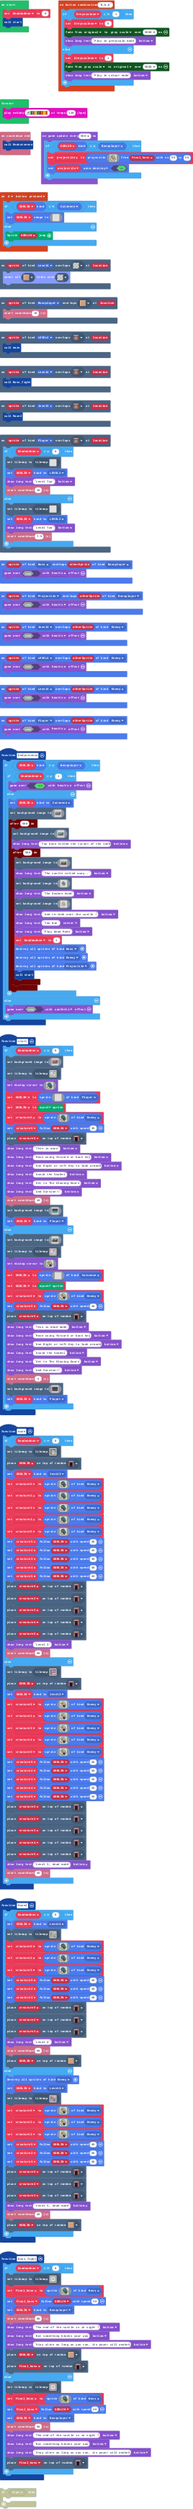
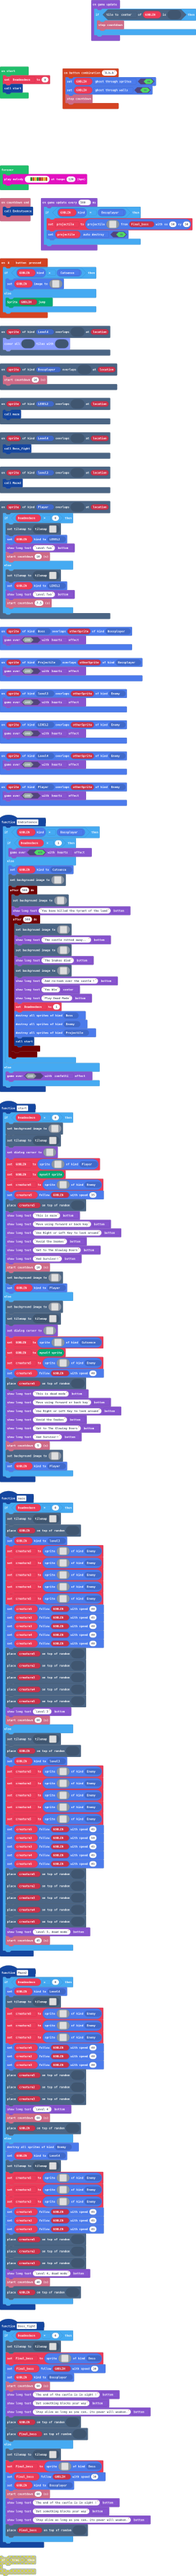
Update main.blocks, main.ts

diff --git a/main.ts b/main.ts
@@ -146,15 +146,9 @@ scene.onOverlapTile(SpriteKind.Level4, assets.tile`transparency16`, function (sp
     tileUtil.coverAllTiles(sprites.dungeon.floorLight2, assets.tile`transparency16`)
 })
 controller.combos.attachCombo("B,b,b", function () {
-    if (Greyscaleon == 1) {
-        Greyscaleon = 0
-        color.startFade(color.originalPalette, color.GrayScale, 5000)
-        game.showLongText("Play in greyscale mode", DialogLayout.Bottom)
-    } else {
-        Greyscaleon = 1
-        color.startFade(color.GrayScale, color.originalPalette, 5000)
-        game.showLongText("Play in colour mode", DialogLayout.Bottom)
-    }
+    GOBLIN.setFlag(SpriteFlag.GhostThroughSprites, true)
+    GOBLIN.setFlag(SpriteFlag.GhostThroughWalls, true)
+    info.stopCountdown()
 })
 sprites.onOverlap(SpriteKind.Boss, SpriteKind.Bossplayer, function (sprite, otherSprite) {
     game.over(false, effects.hearts)
@@ -1797,12 +1791,16 @@ let creature4: Sprite = null
 let creature3: Sprite = null
 let creature2: Sprite = null
 let creature5: Sprite = null
-let Greyscaleon = 0
 let GOBLIN: Sprite = null
 let Final_boss: Sprite = null
 let Deadmodeon = 0
 Deadmodeon = 0
 start()
+game.onUpdate(function () {
+    if (GOBLIN.tileKindAt(TileDirection.Center, sprites.dungeon.greenOuterNorth0)) {
+        info.stopCountdown()
+    }
+})
 forever(function () {
     music.playMelody("G B A G C5 B A B ", 120)
 })
